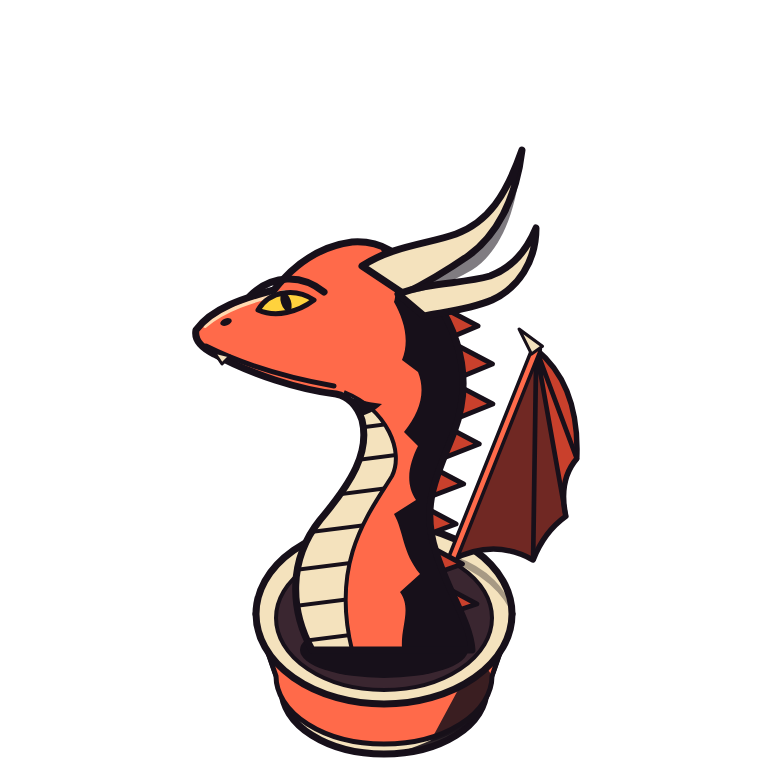
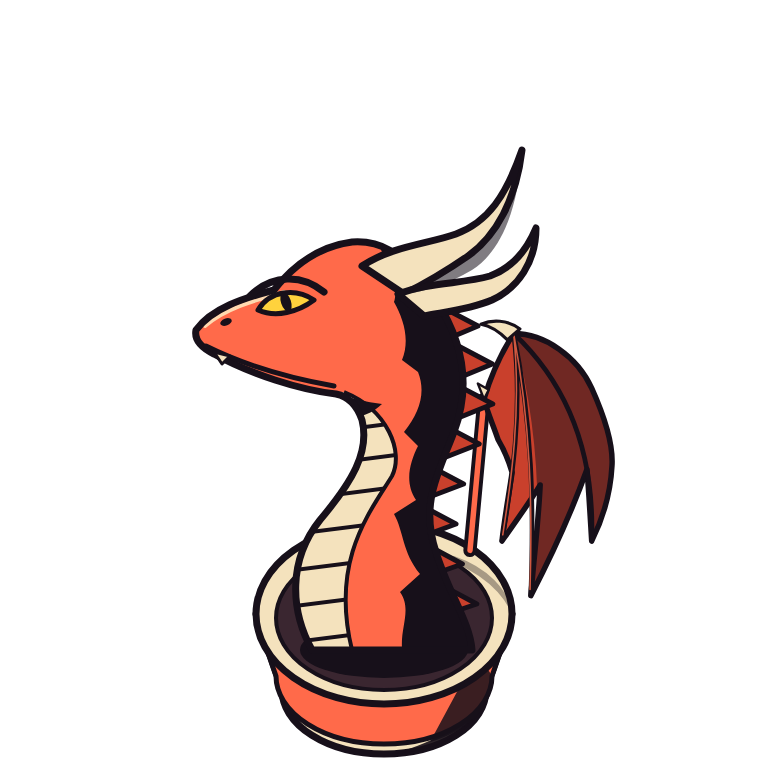
art-src: 龍 v4 — 翅膀依參考圖改為下垂的摺翼（腕爪在上、三根長尖指尖）
Claude-Session: https://claude.ai/code/session_01YcRvipXLdSARSXJBNmnAqn

Changed region(s): [[0.5938, 0.4062, 0.8125, 0.7812]]

diff --git a/art-src/dragon/build.js b/art-src/dragon/build.js
@@ -59,18 +59,27 @@ function head({ clipId, eyeScale = 1, mouth = 'smile' }) {
   <path d="M214,352 L222,364 L230,356 Z" fill="${CREAM}" stroke="${INK}" stroke-width="3" stroke-linejoin="round"/>`;
 }
 
-/* ── 翅膀：摺起來的蝙蝠翼（像收起的傘）。肩 S → 前臂往上到腕 W（最高點、有拇爪）→ 三根翼指往下收，翼膜下緣是內凹的扇貝 ── */
-const WING = { S: [452, 560], W: [560, 290], F1: [612, 430], F2: [598, 504], F3: [556, 560] };
+/* ── 翅膀（參考 David 給的摺翼圖）：腕關節在最上方（帶一根往上彎的大爪），翼骨往下垂，
+   下緣是三根長尖指尖、中間深深內凹；左側有拇爪和一個內凹的缺口。寬度與 v2 相同。── */
 function wing(k = 1) {
-  const { S, W, F1, F2, F3 } = WING, P = (q) => q.join(',');
-  const mem = `M${P(S)} L${P(W)} Q616,336 ${P(F1)} Q588,458 ${P(F2)} Q570,524 ${P(F3)} Q506,532 ${P(S)} Z`;
-  return `<g transform="translate(${S[0]} ${S[1]}) scale(${k}) translate(${-S[0]} ${-S[1]})">
+  const W = '508,262';
+  const mem = 'M508,262 C548,262 590,292 608,332 C626,372 636,404 634,432 C632,470 622,500 608,528 '   // 外緣（右）→ 右指尖
+    + 'C606,494 604,462 602,436 '                                                                     // 往上內凹
+    + 'C584,486 556,548 530,598 '                                                                      // 中指尖（最長）
+    + 'C534,550 540,500 542,456 '                                                                      // 內凹
+    + 'C530,476 510,504 493,528 '                                                                      // 左指尖
+    + 'C496,500 502,468 506,440 C500,420 494,408 488,398 '                                            // 左緣往上 → 小刺
+    + 'C482,380 474,362 470,346 '                                                                      // 內凹缺口 → 拇爪
+    + 'C478,318 490,290 508,262 Z';
+  const shade = 'M508,262 C548,262 590,292 608,332 C626,372 636,404 634,432 C632,470 622,500 608,528 C606,494 604,462 602,436 C584,486 556,548 530,598 C546,500 540,380 508,262 Z';
+  return `<g transform="translate(470 566) scale(${k}) translate(-452 -560)">
+    <path d="M452,540 L470,346" stroke="${INK}" stroke-width="17" stroke-linecap="round"/><path d="M452,540 L470,346" stroke="${RED}" stroke-width="7" stroke-linecap="round"/>
     <path d="${mem}" fill="${RED2}" stroke="${INK}" stroke-width="${OL}" stroke-linejoin="round"/>
-    <path d="M${P(W)} L${P(F2)} Q570,524 ${P(F3)} Q506,532 ${P(S)} Z" fill="${INK}" opacity=".5"/>
-    <path d="M${P(W)} L${P(F1)} M${P(W)} L${P(F2)} M${P(W)} L${P(F3)}" stroke="${INK}" stroke-width="6" stroke-linecap="round"/>
-    <path d="M${P(S)} L${P(W)}" stroke="${INK}" stroke-width="15" stroke-linecap="round"/>
-    <path d="M${P(S)} L${P(W)}" stroke="${RED}" stroke-width="6" stroke-linecap="round"/>
-    <path d="M${W[0] - 6},${W[1] + 6} L${W[0] - 22},${W[1] - 26} L${W[0] + 8},${W[1] - 4} Z" fill="${CREAM}" stroke="${INK}" stroke-width="4" stroke-linejoin="round"/></g>`;
+    <path d="${shade}" fill="${INK}" opacity=".5"/>
+    <path d="M${W} C532,380 534,480 530,598 M${W} C520,360 506,450 493,528 M${W} C580,330 612,420 608,528" fill="none" stroke="${INK}" stroke-width="6" stroke-linecap="round"/>
+    <path d="M${W} C530,380 532,480 529,590 M${W} C518,360 505,450 494,520" fill="none" stroke="${RED}" stroke-width="2" stroke-linecap="round" opacity=".8"/>
+    <path d="M470,346 L462,326 L476,334 Z" fill="${CREAM}" stroke="${INK}" stroke-width="3" stroke-linejoin="round"/>
+    <path d="M500,270 C488,258 478,252 466,250 C480,244 500,244 516,256 Z" fill="${CREAM}" stroke="${INK}" stroke-width="4" stroke-linejoin="round"/></g>`;
 }
 // 角：先往後掃，再 S 形向上翹（底部寬、尖端細）
 const HORN_A = 'M362,266 C392,246 428,244 456,234 C488,222 506,196 522,150 C516,200 496,236 468,256 C442,274 420,286 404,294 Z';
